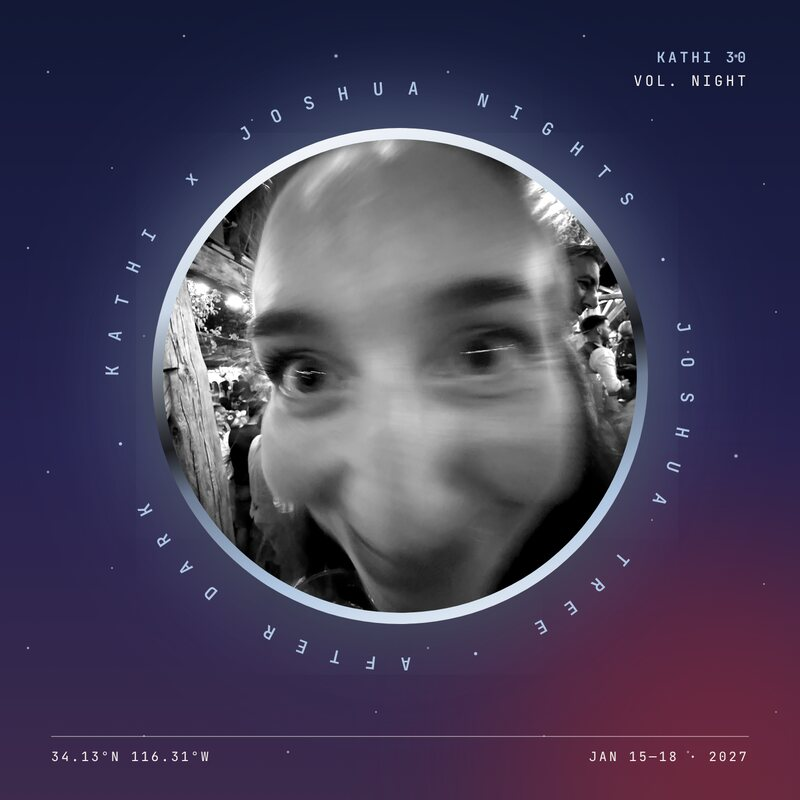
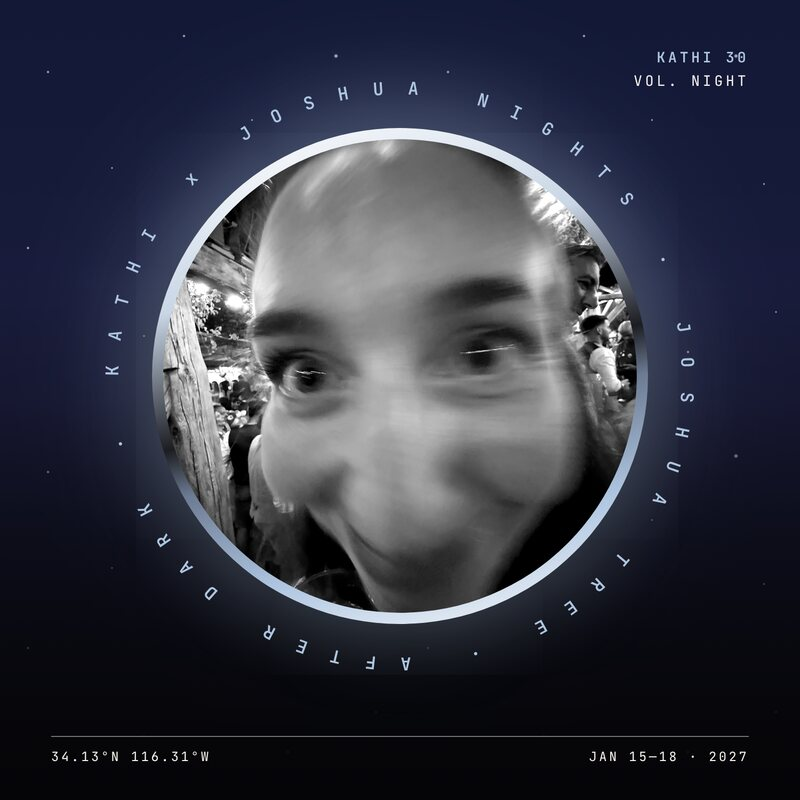
Night cover: black fade instead of red
Claude-Session: https://claude.ai/code/session_015srq9B7aamxsEMEASfp4Nc

diff --git a/site/index.html b/site/index.html
@@ -228,7 +228,7 @@
         <span class="mono-plain ls1">🌙 NIGHT PLAYLIST</span>
         <span class="pl-title chrome-soft-text">kathi x joshua nights</span>
         <span class="body16">Dinner → dance floor → 2am singalongs. Bangers only, guilty pleasures encouraged.</span>
-        <a data-href="nightPlaylistUrl" target="_blank" rel="noopener" class="cover"><img src="assets/cover-nights.jpg?v=2" alt="Night playlist cover" loading="lazy" width="800" height="800"></a>
+        <a data-href="nightPlaylistUrl" target="_blank" rel="noopener" class="cover"><img src="assets/cover-nights.jpg?v=3" alt="Night playlist cover" loading="lazy" width="800" height="800"></a>
         <a data-href="nightPlaylistUrl" target="_blank" rel="noopener" class="btn-sm btn-chrome mono self-start">add your song →</a>
       </div>
     </div>
